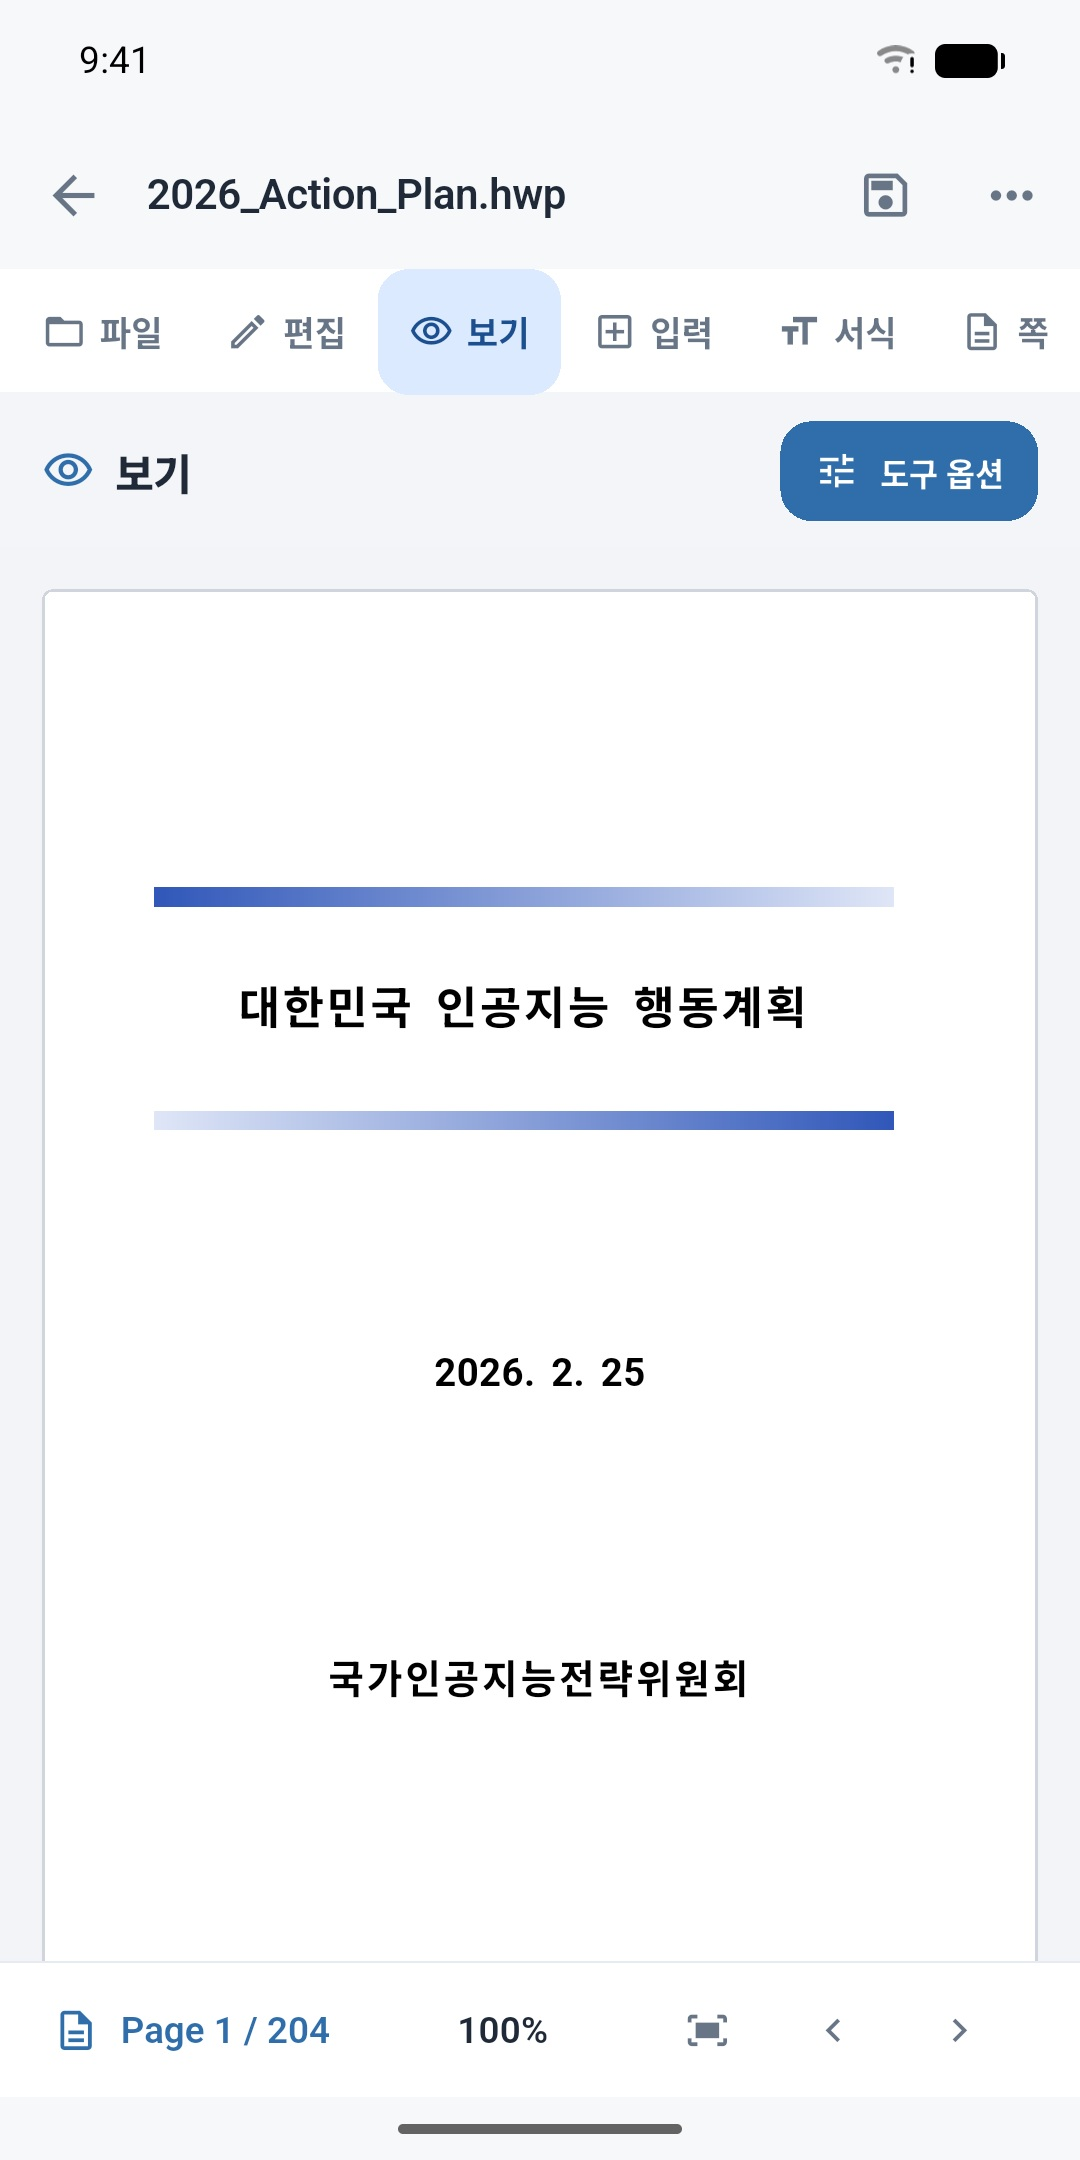
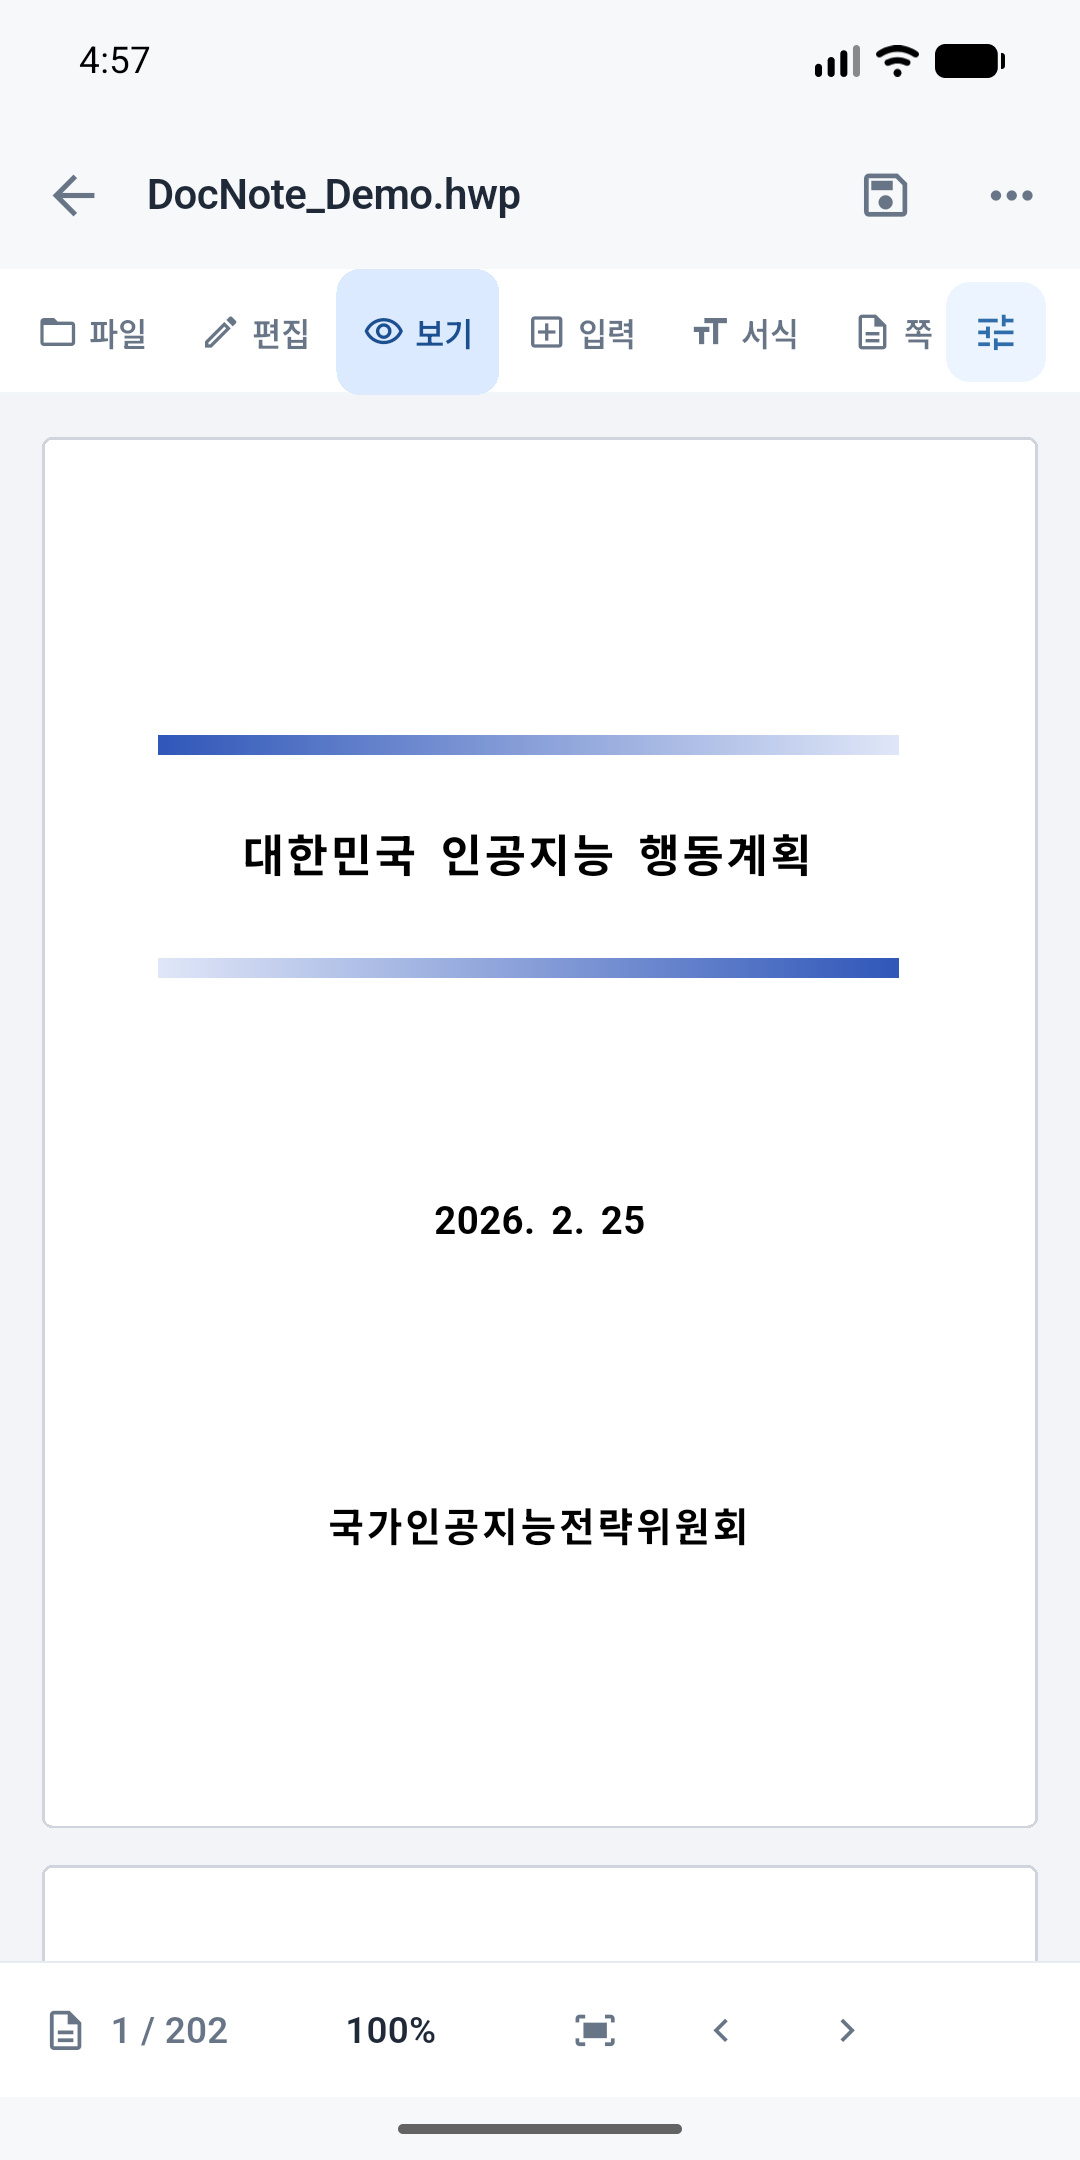
Prepare current Google Play store assets and listing copy

diff --git a/store_assets/google_play/prepare_assets.py b/store_assets/google_play/prepare_assets.py
@@ -1,0 +1,79 @@
+"""Prepare unframed Google Play screenshots and the DocNote feature graphic.
+
+Run from the repository root after capturing the raw emulator screens in build/qa.
+"""
+
+from pathlib import Path
+
+from PIL import Image, ImageDraw, ImageFont
+
+
+ROOT = Path(__file__).resolve().parents[2]
+ASSETS = ROOT / "store_assets" / "google_play"
+QA = ROOT / "build" / "qa"
+
+
+def screenshot(source: str, target: str, size: tuple[int, int]) -> None:
+    image = Image.open(QA / source).convert("RGB")
+    if image.size != size:
+        raise ValueError(f"{source}: expected {size}, got {image.size}")
+    # The emulator's first capture sometimes includes a 1 px focus outline.
+    # Remove only the outside pixel and restore the exact native dimensions.
+    if source.endswith("-raw.png"):
+        edge = image.getpixel((0, image.height // 2))
+        if edge[1] > 140 and edge[0] < 170 and edge[2] < 120:
+            image = image.crop((2, 2, image.width - 2, image.height - 2))
+            image = image.resize(size, Image.Resampling.LANCZOS)
+    destination = ASSETS / "screenshots" / target
+    destination.parent.mkdir(parents=True, exist_ok=True)
+    image.save(destination, "JPEG", quality=95, subsampling=0, optimize=True)
+
+
+def feature_graphic() -> None:
+    size = (1024, 500)
+    image = Image.new("RGB", size, "#F7F8FB")
+    draw = ImageDraw.Draw(image)
+    bold = "C:/Windows/Fonts/malgunbd.ttf"
+    regular = "C:/Windows/Fonts/malgun.ttf"
+    draw.rounded_rectangle((44, 45, 980, 455), radius=38, fill="#FFFFFF")
+    draw.rounded_rectangle((82, 103, 161, 183), radius=16, fill="#DCEAFF")
+    draw.rounded_rectangle((102, 119, 143, 169), radius=4, fill="#FFFFFF", outline="#3470BA", width=3)
+    draw.line((111, 134, 134, 134), fill="#82A9D4", width=2)
+    draw.line((111, 144, 130, 144), fill="#82A9D4", width=2)
+    draw.line((111, 154, 126, 154), fill="#82A9D4", width=2)
+    draw.text((84, 208), "DocNote", font=ImageFont.truetype(bold, 72), fill="#1F2937")
+    draw.text((88, 314), "노트와 문서를 한곳에", font=ImageFont.truetype(regular, 29), fill="#6B7280")
+    # Notebook and document objects reflect the app's library presentation.
+    draw.rounded_rectangle((602, 116, 772, 369), radius=12, fill="#DFEAF5")
+    draw.rectangle((622, 134, 629, 350), fill="#42719B")
+    draw.line((650, 172, 737, 172), fill="#91AEC9", width=3)
+    draw.line((650, 183, 716, 183), fill="#91AEC9", width=3)
+    draw.text((647, 305), "NOTES", font=ImageFont.truetype(bold, 24), fill="#315F88")
+    draw.rounded_rectangle((790, 145, 934, 369), radius=8, fill="#FFFFFF", outline="#E7EBF1", width=2)
+    draw.line((812, 205, 914, 205), fill="#7FA3CD", width=4)
+    draw.line((812, 230, 906, 230), fill="#B8C9DD", width=3)
+    draw.line((812, 251, 906, 251), fill="#B8C9DD", width=3)
+    draw.line((812, 272, 884, 272), fill="#B8C9DD", width=3)
+    draw.rounded_rectangle((811, 320, 868, 345), radius=5, fill="#E5EFFA")
+    draw.text((820, 323), "PDF", font=ImageFont.truetype(bold, 14), fill="#376895")
+    image.save(ASSETS / "feature-graphic.png", optimize=True)
+
+
+if __name__ == "__main__":
+    for source, target in [
+        ("home2-raw.png", "phone/01-home-library.jpg"),
+        ("editor-final-raw.png", "phone/02-notebook-editor.jpg"),
+        ("hwp-final-raw.png", "phone/03-hwp-document.jpg"),
+        ("sheet-final.png", "phone/04-create-sheet.jpg"),
+        ("search-final-raw.png", "phone/05-search-results.jpg"),
+    ]:
+        screenshot(source, target, (1080, 2160))
+    for source, target in [
+        ("tabhome-final-raw.png", "tablet/01-tablet-home.jpg"),
+        ("tabdocs-final-raw.png", "tablet/02-tablet-documents.jpg"),
+        ("tabeditor-full-raw.png", "tablet/03-tablet-notebook-editor.jpg"),
+        ("tabcreate-final-raw.png", "tablet/04-tablet-create-sheet.jpg"),
+        ("tabsearch-final-raw.png", "tablet/05-tablet-search.jpg"),
+    ]:
+        screenshot(source, target, (1920, 1080))
+    feature_graphic()

diff --git a/docs/play_release_readiness.md b/docs/play_release_readiness.md
@@ -11,6 +11,7 @@
 - 릴리즈 APK 식별 정보: `com.bangceps.docnote`, versionCode 1, versionName 0.1.0, min API 24, target API 36.
 - Pixel 7 x86_64 에뮬레이터의 같은 코드 디버그 빌드에서 긴 HWP 202쪽 마지막 미주와 QA PDF 2쪽 열기를 화면으로 확인했다. 기존 PDF 필기 오버레이도 표시됐다. 빠른 필기로 새 노트를 만들고 선을 그린 뒤 닫고 다시 열어 획 복원을 확인했다. 이 테스트 노트만 휴지통으로 이동했고 기존 문서는 수정하지 않았다. 해당 구간의 앱 로그에 `E/flutter`, `FATAL EXCEPTION`, `RenderFlex`, `FormatException`은 없었다. 이는 ARM 릴리즈 실행 검증을 대신하지 않는다.
 - 이번 점검에서 가져오기, 수동 백업·복원, 삭제 후 복구, PDF 내보내기 전체 흐름을 새 빌드로 다시 실행하지 않았다. 기존 자동 테스트 및 이전 QA 기록이 있지만 최신 실기기 통과로 간주하지 않는다.
+- 2026-10-30 스토어 촬영용 x86_64 릴리즈 APK를 별도 Pixel 7(API 37)과 Pixel Tablet(API 35) 에뮬레이터에 설치했다. 새 노트 생성·텍스트/획 입력, HWP 샘플 가져오기/열기, 홈·문서·검색·생성 메뉴 화면을 확인하고 스크린샷 10장을 촬영했다. 이는 ARM 실기기 검증을 대체하지 않는다.
 - **공개 출시 판정: 보류.** ARM 실기기에서 릴리즈 설치·핵심 편집/저장/재진입, 내부 테스트 트랙의 AAB 설치/업데이트, 최소 API 24 기기, 실제 사용자 HWPX와 암호화·손상 파일 오류 안내, 업로드 키의 별도 보관을 확인해야 한다.
 
 ## 내부 테스트 진입 점검 (2026-10-30)
@@ -43,8 +44,9 @@
 - [x] 공개 개인정보 처리방침을 GitHub Pages에서 HTTP 200으로 확인: https://bangcepslabs.github.io/docnote/privacy-policy.html
 - [ ] Google Play Data safety form을 실제 배포 AAB와 SDK 동작 기준으로 제출. 공유 시트로 사용자가 직접 외부 앱에 보내는 문서의 처리 항목을 폼 정의에 따라 확인.
 - [ ] 스토어 등록 개발자명과 문의 연락처를 확정하고 배포 페이지에 표시.
-- [ ] 앱 설명에 로컬 저장, 수동 백업, 백업 ZIP 비암호화, PDF 내보내기의 페이지 이미지화, HWP 호환 범위를 고지.
-- [ ] 그래픽 에셋, 스크린샷, 콘텐츠 등급 및 대상 연령 등 Play Console 항목 작성.
+- [x] 앱 설명 초안에 로컬 저장, 수동 백업, 백업 ZIP 비암호화, PDF 내보내기의 페이지 이미지화, HWP 호환 범위를 고지: `store_assets/google_play/listing-ko.md`. Play Console 제출은 아직 하지 않음.
+- [x] 현재 릴리즈 UI 기준 앱 아이콘·그래픽 이미지 및 휴대폰/태블릿 스크린샷 준비: `store_assets/google_play/`. Play Console 미리보기 검토는 아직 필요.
+- [ ] 콘텐츠 등급, 대상 연령 및 기타 Play Console 항목 작성.
 - [ ] HWPX, 암호화/손상/대용량 HWP 파일의 지원 범위를 실문서로 확인하고 실패 안내 검증.
 - [ ] 최소 지원 API 24 기기와 최신 Android 기기에서 설치, 문서 가져오기/삭제/복원, 수동 백업/복원, PDF 내보내기를 확인.
 - [ ] 릴리즈 키와 비밀번호를 작업 PC 외부의 안전한 별도 저장소에 백업하고 복구 절차를 검증.

diff --git a/store_assets/google_play/listing-ko.md b/store_assets/google_play/listing-ko.md
@@ -1,0 +1,52 @@
+# Google Play 한국어 스토어 등록 문안
+
+## 앱 이름
+
+DocNote - 노트와 문서
+
+## 짧은 설명
+
+필기 노트와 메모, PDF·HWP 문서를 한곳에서 만들고 관리하세요.
+
+## 자세한 설명
+
+DocNote는 필기 노트, 메모, PDF와 한글 문서를 한 라이브러리에서 관리하는 Android 앱입니다.
+
+• 표지와 속지를 골라 노트를 만들고 펜, 형광펜, 지우개, 도형, 텍스트, 이미지로 페이지를 작성하세요.
+• PDF를 가져와 페이지를 읽고 필기한 뒤, 주석을 포함한 새 PDF로 내보낼 수 있습니다.
+• HWP/HWPX 문서를 가져와 열람하고 지원되는 범위에서 편집할 수 있습니다. 복잡한 서식이나 일부 문서는 원본과 다르게 표시될 수 있습니다.
+• 라이브러리에서 노트와 문서를 검색하고, 페이지를 관리하며, 즐겨찾기를 사용할 수 있습니다.
+• 계정이나 별도 서버 없이 기기에서 문서를 보관합니다. 수동 백업 파일을 만들어 다른 기기에서 복원할 수 있습니다.
+
+문서와 첨부 파일은 기본적으로 기기 내부에서 처리됩니다. 사용자가 공유 기능을 선택하면 해당 외부 앱으로 파일이 전달될 수 있습니다. `.docnote` 수동 백업은 암호화되지 않은 ZIP 형식이므로 민감한 문서는 안전한 위치에 보관하세요. 필기를 포함해 내보낸 PDF는 페이지가 이미지로 합성되어 원본의 텍스트 선택·검색 기능이 유지되지 않을 수 있습니다.
+
+문의: bum2432@gmail.com
+개인정보 처리방침: https://bangcepslabs.github.io/docnote/privacy-policy.html
+
+## 제출 정보
+
+- 언어: 한국어
+- 앱 또는 게임: 앱
+- 가격: 무료
+- 패키지명: `com.bangceps.docnote`
+- 연락처: `bum2432@gmail.com`
+- 개인정보 처리방침: `https://bangcepslabs.github.io/docnote/privacy-policy.html`
+- 앱 아이콘: `icon.png` (512 × 512)
+- 그래픽 이미지: `feature-graphic.png` (1024 × 500)
+- 휴대폰 및 태블릿 스크린샷: `screenshots/`
+
+## 이미지 대체 텍스트 초안
+
+- 그래픽 이미지: DocNote 이름 옆에 노트 표지와 PDF 문서가 나란히 놓인 그림
+- 휴대폰 1: 최근 작업과 HWP·노트 표지가 보이는 DocNote 홈
+- 휴대폰 2: 텍스트와 필기 획이 있는 노트 편집기와 상단 도구 모음
+- 휴대폰 3: HWP 문서 첫 페이지와 페이지 이동 메뉴
+- 휴대폰 4: 새 노트, 빠른 필기, 문서 촬영, 파일 가져오기 메뉴
+- 휴대폰 5: 노트 제목 검색 결과
+- 태블릿 1: 최근 작업과 노트 라이브러리가 보이는 태블릿 홈
+- 태블릿 2: HWP와 노트 표지를 함께 보여주는 문서 라이브러리
+- 태블릿 3: 문서 탭, 필기 도구와 노트 페이지가 보이는 편집기
+- 태블릿 4: 태블릿의 새 노트와 파일 가져오기 메뉴
+- 태블릿 5: 태블릿에서 노트 제목을 검색한 결과
+
+이 문안은 Play Console에 아직 제출하지 않았다. 콘텐츠 등급, 대상 연령, 데이터 보안 양식은 실제 출시 AAB와 Console 질문에 맞춰 작성해야 한다.

diff --git a/store_assets/google_play/screenshots/README.md b/store_assets/google_play/screenshots/README.md
@@ -1,23 +1,25 @@
 # Google Play screenshots
 
-Captured from the current Android profile build on clean, isolated Pixel 7 and Pixel Tablet QA emulators. The demo notebooks and imported HWP file exist only on those QA emulators; existing development emulator data was not used.
+2026-10-30 기준 동일 소스의 서명된 x86_64 릴리즈 APK를 별도 Pixel 7 / Pixel Tablet QA 에뮬레이터에 설치해 촬영했다. 사용자 데이터는 사용하지 않았다. `build/qa`의 원본 PNG에서 화면 가장자리의 에뮬레이터 포커스선이 있으면 외곽 2픽셀만 제거하고 JPEG 품질 95로 저장했다. 앱 UI를 합성하거나 수정하지 않았다.
 
 ## Phone
 
-1080 × 2160 JPEG (portrait)
+1080 × 2160 JPEG, 세로 1:2.
 
-1. `phone/01-home-library.jpg` — Home library with notebook covers and an HWP first-page preview.
-2. `phone/02-notebook-editor.jpg` — Notebook editor with the writing toolbar and sample text.
-3. `phone/03-hwp-document.jpg` — HWP document viewer with page navigation.
-4. `phone/04-search-results.jpg` — Search results for a notebook.
+1. `phone/01-home-library.jpg` — 노트 표지와 HWP 첫 페이지 미리보기가 있는 홈.
+2. `phone/02-notebook-editor.jpg` — 텍스트·획과 통합 툴바가 보이는 노트 편집기.
+3. `phone/03-hwp-document.jpg` — HWP 문서 첫 페이지와 페이지 이동.
+4. `phone/04-create-sheet.jpg` — 새 노트·빠른 필기·문서 가져오기 메뉴.
+5. `phone/05-search-results.jpg` — 노트 검색 결과.
 
 ## Tablet
 
-1920 × 1200 JPEG (landscape, 16:10)
+1920 × 1080 JPEG, 가로 16:9.
 
-1. `tablet/01-tablet-home.jpg` — Tablet Home with recent documents and library.
-2. `tablet/02-tablet-documents.jpg` — Two-column Documents library with HWP and notebook previews.
-3. `tablet/03-tablet-notebook-editor.jpg` — Notebook editor with a sample diagram and toolbar.
-4. `tablet/04-tablet-search.jpg` — Tablet search results.
+1. `tablet/01-tablet-home.jpg` — 태블릿 홈과 최근 문서.
+2. `tablet/02-tablet-documents.jpg` — HWP와 노트 표지가 있는 문서 라이브러리.
+3. `tablet/03-tablet-notebook-editor.jpg` — 문서 탭과 통합 툴바가 보이는 노트 편집기.
+4. `tablet/04-tablet-create-sheet.jpg` — 태블릿 새로 만들기 메뉴.
+5. `tablet/05-tablet-search.jpg` — 태블릿 검색 결과.
 
-These are unframed emulator captures saved as JPEG at quality 95. The phone set is 9:18 and the tablet set is 16:10. Review the tablet captures in Play Console preview as well, since Android's tablet system navigation indicator is visible in the raw device screenshots.
+스토어 업로드 전 Play Console 미리보기에서 텍스트 판독과 이미지 순서를 다시 확인한다. 출시 트랙에 올릴 AAB는 ARM 실기기 및 내부 테스트 검증이 아직 필요하다.
